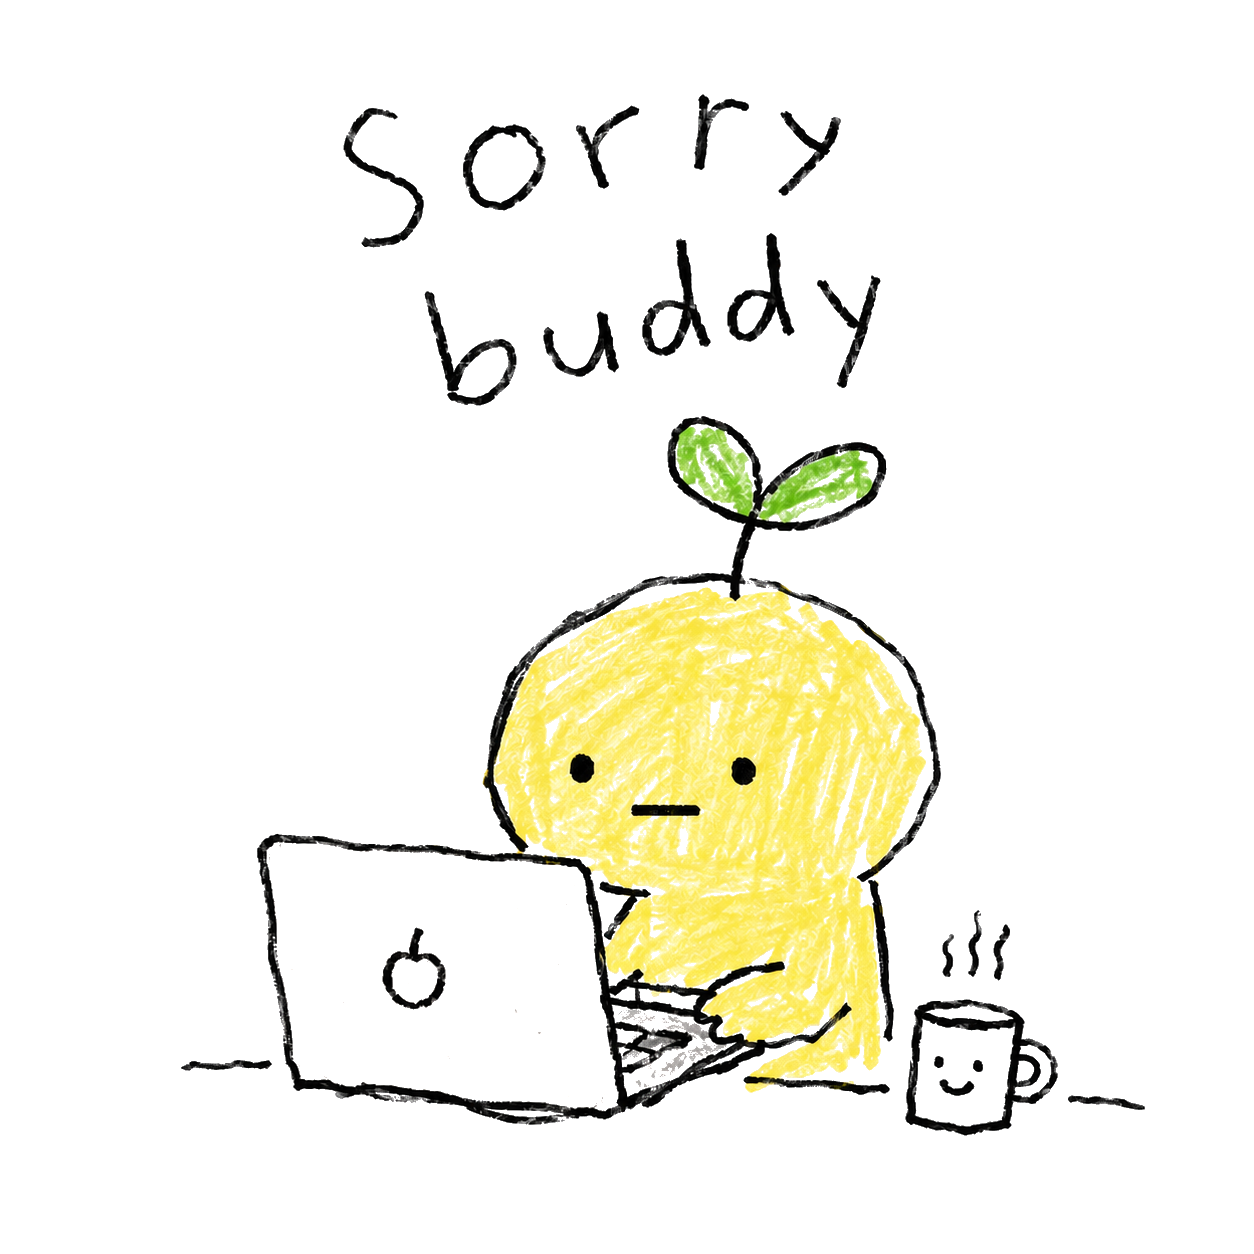
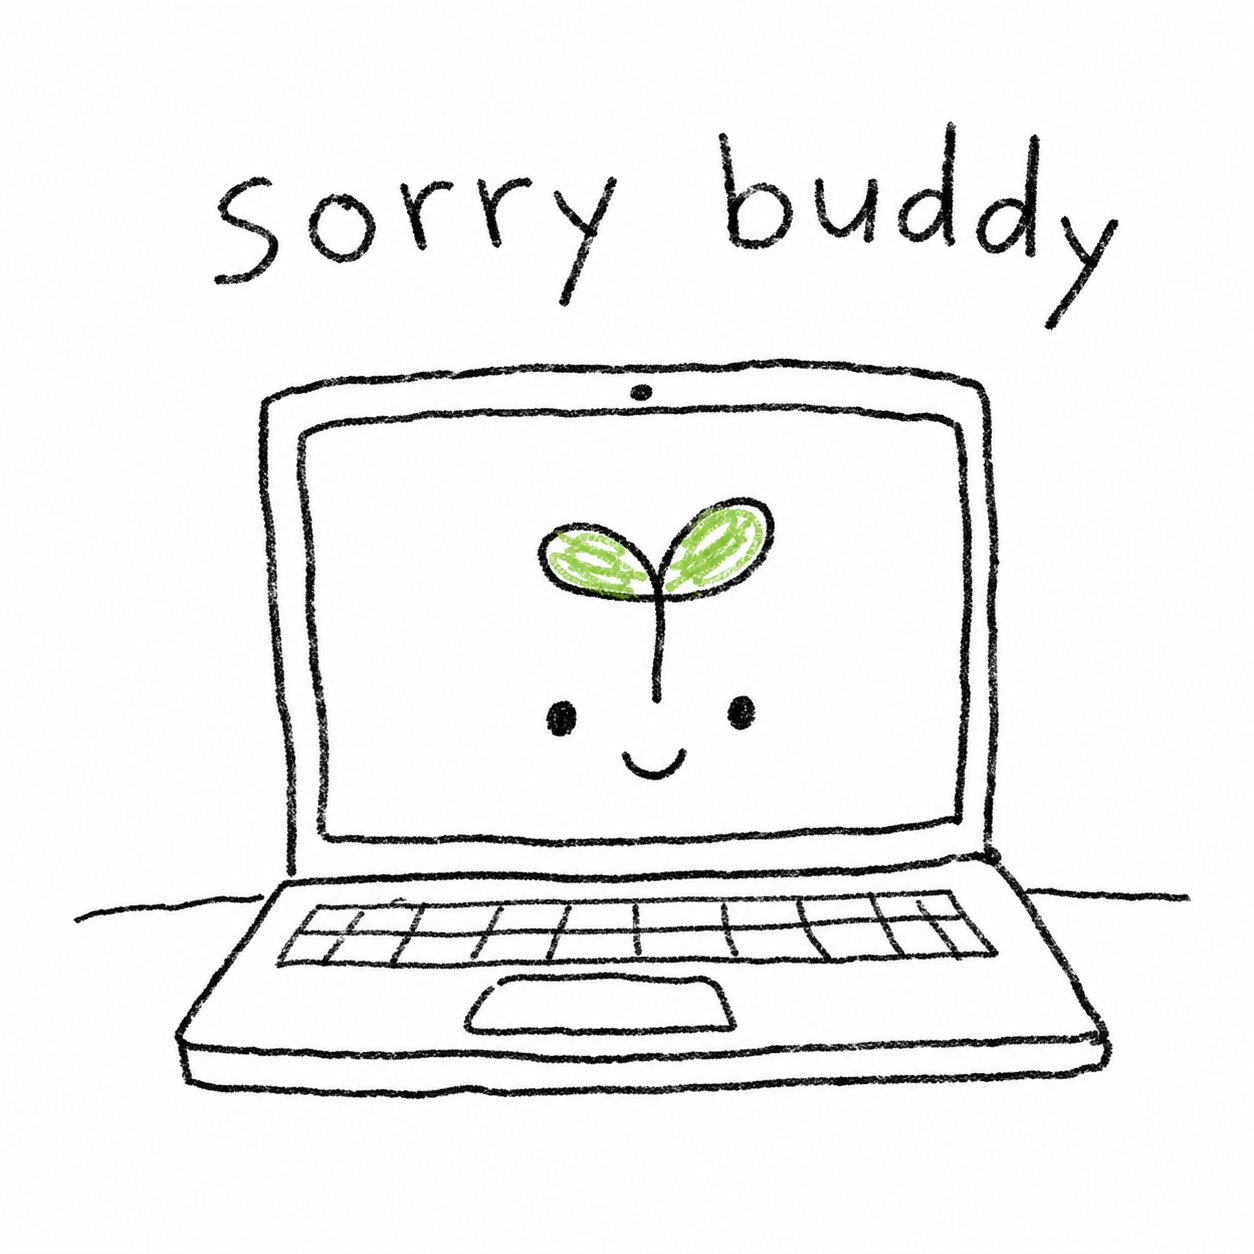
Replace README sketch with laptop screen friend

Changed region(s): [[0.0622, 0.0622, 0.933, 0.9019], [0.5287, 0.0622, 0.9019, 0.2488], [0.1555, 0.1244, 0.2177, 0.2488]]

diff --git a/README.md b/README.md
@@ -5,7 +5,7 @@
 [한국어 README](README.ko.md)
 
 <p align="center">
-  <img src="Assets/brand/sorrybuddy-sketch.png" alt="SorryBuddy hand-drawn sketch" width="420">
+  <img src="Assets/brand/sorrybuddy-sketch.png" alt="SorryBuddy hand-drawn laptop screen friend sketch" width="420">
 </p>
 
 SorryBuddy is a small macOS menu bar app for testing closed-lid work mode on a MacBook. It can keep the Mac awake after the lid closes, dim the built-in display to 0 when the lid is closed, and restore the previous brightness when the lid opens or the mode turns off.
@@ -36,7 +36,7 @@ This build is ad-hoc signed and not notarized. On first launch, macOS may ask yo
 
 ## Visual Identity
 
-The first SorryBuddy sketch is kept as the project's README artwork. The app icon uses a minimal eyes-and-sprout mark derived from that sketch, with the colored face and enclosing circle removed.
+The README artwork shows the little SorryBuddy friend smiling from inside a laptop screen. The app icon uses a minimal eyes-and-sprout mark derived from that friend, with the colored face and enclosing circle removed.
 
 ## Requirements
 
